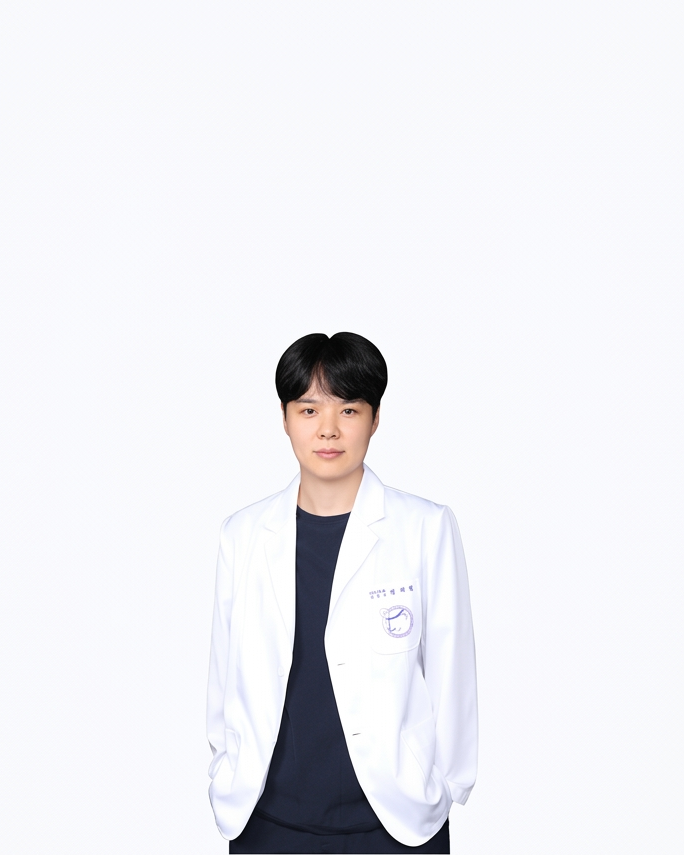
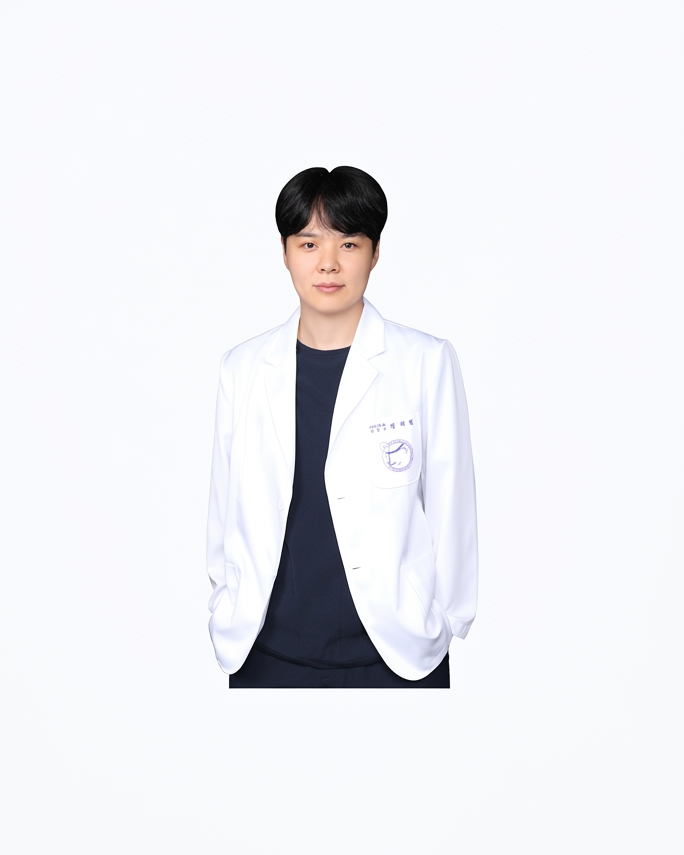
원장 프로필 사진 가운데 배치, 상단 로고 클릭 시 홈으로 이동
- 원장 프로필 사진에서 인물을 프레임 가운데에 배치
- 헤더 로고 링크를 #top에서 /로 변경해 하위 페이지에서도 홈으로 이동

Changed region(s): [[0.307, 0.1825, 0.7061, 1.0], [0.3377, 0.6082, 0.3684, 0.6386], [0.307, 0.669, 0.3377, 0.6994]]

diff --git a/src/components/Header.tsx b/src/components/Header.tsx
@@ -1,6 +1,7 @@
 "use client";
 
 import { useState } from "react";
+import Link from "next/link";
 import { Logo } from "./Logo";
 import { ListIcon, PhoneCallIcon, XIcon } from "@phosphor-icons/react";
 
@@ -20,9 +21,9 @@ export default function Header() {
   return (
     <header className="sticky top-0 z-50 border-b border-border bg-background/95 backdrop-blur supports-[backdrop-filter]:bg-background/80">
       <div className="mx-auto flex h-16 max-w-6xl items-center justify-between px-5 sm:h-20 sm:px-8">
-        <a href="#top" className="shrink-0">
+        <Link href="/" aria-label="초록이비인후과의원 홈" className="shrink-0">
           <Logo markSize={38} wordmarkClassName="text-base sm:text-lg" />
-        </a>
+        </Link>
 
         <nav className="hidden items-center gap-8 md:flex" aria-label="주요 메뉴">
           {NAV_ITEMS.map((item) => (
